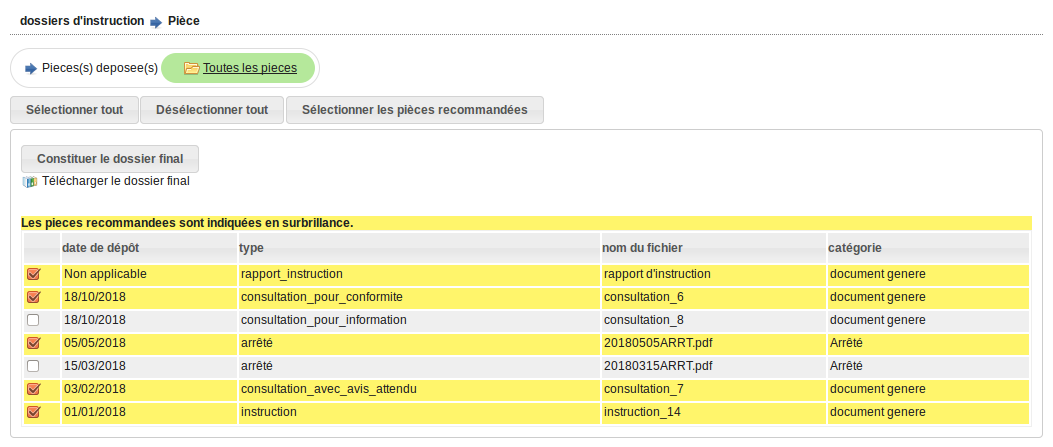
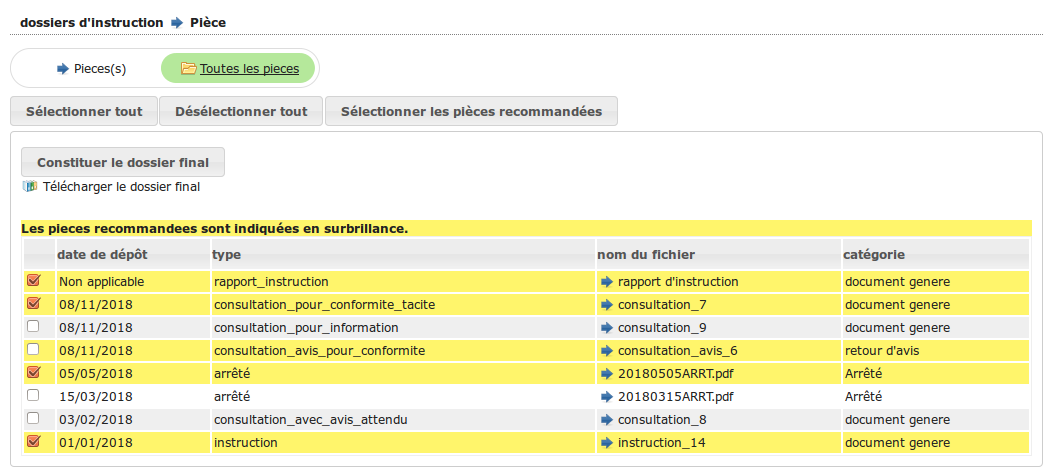
Constituer dossier final : ajout note + nouvelle CE

Changed region(s): [[0.0, 0.3199, 1.0, 0.9888], [0.0, 0.0872, 1.0, 0.2908], [0.0, 0.0291, 0.2127, 0.0582]]

diff --git a/source/manuel_utilisateur/instruction.rst b/source/manuel_utilisateur/instruction.rst
@@ -505,9 +505,13 @@ Les pièces recommandées sont indiquées en surbrillance comme précisé par la
     * les pièces jointes aux retours de consultations non tacites ;
     * les documents générés lors d'une demande de consultation tacite.
 
-Cependant, les pièces des consultations "pour information" ne sont jamais recommandées. 
+Cependant, les pièces des consultations "pour information" ne sont jamais recommandées.
 
-Pour chacune des pièces listées, cliquer sur le nom du fichier permet d'en avoir un aperçu direct. 
+.. note::
+
+    Le paramètre :ref:`**id_avis_consultation_tacite**<parametrage_parametre_identifiants>` doit être renseigné pour identifier l'avis de consultation tacite.
+
+Pour chacune des pièces listées, cliquer sur le nom du fichier permet d'en avoir un aperçu direct.
 
 Pour sélectionner des pièces pour le dossier final, il suffit de les cocher puis de cliquer sur le bouton **Constituer le dossier final**.
 
